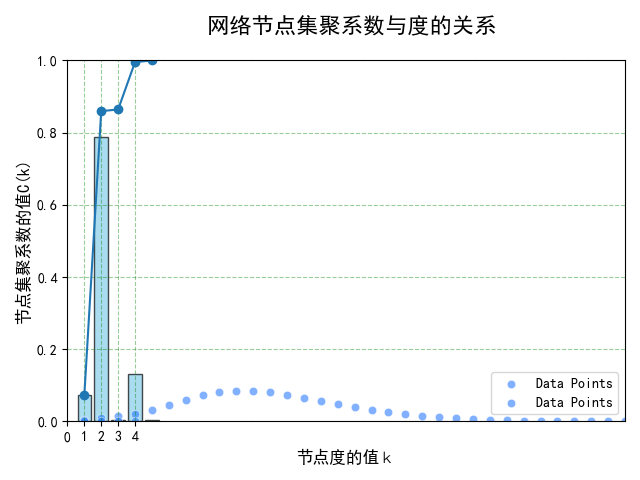
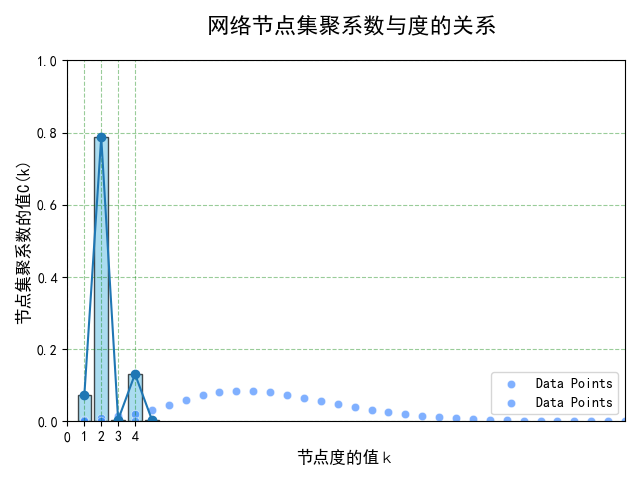
4.0打印了一些基础的东西

Changed region(s): [[0.125, 0.2188, 0.25, 0.875], [0.1875, 0.125, 0.25, 0.2188]]

diff --git a/complexGraph.py b/complexGraph.py
@@ -284,11 +284,12 @@ class complexGraphProject(object):
         :return:
         """
         # 数据
-
+        k_division_acc = deepcopy(k_division)
+        # print(k_division_acc)
         k_division_fuben = deepcopy(k_division)  # 将k_division的值进行深拷贝，只赋值，不赋地址
         x = [1, 2, 3, 4, 5]
         for i in range(5):
-            k_division[i] = sum(k_division_fuben[0:i + 1])
+            k_division_acc[i] = sum(k_division_fuben[0:i + 1])
 
         # 创建折线图
         plt.plot(x, k_division, marker='o')
@@ -300,7 +301,7 @@ class complexGraphProject(object):
         plt.ylim(0, 1.01)
         plt.grid(True, color="green")
         plt.savefig('kLinePlot.png')
-        k_division_acc = k_division
+
         return k_division_acc
 
     def k_sum(self, stationMatrix=None, lineIndex_dict=None):
@@ -357,7 +358,7 @@ class complexGraphProject(object):
         x = []
         for index, value in enumerate(averShortPathList):
             x.insert(index, index + 1)
-        print(x)
+        # print(x)
         plt.scatter(
             x,
             averShortPathList,
@@ -538,7 +539,7 @@ class complexGraphProject(object):
         :param k_dict:
         :return:
         """
-        print(k_dict)
+        # print(k_dict)
         x = []  # 存节点的度
         y = []  # 存节点的介数
         for index, value in node_bc.items():
@@ -584,12 +585,23 @@ class complexGraphProject(object):
 
         # 计算点介数（结果自动包含标准化处理）
         node_bc = nx.betweenness_centrality(G)
+        node_ave = 0  # 点平均介数
+        for key, value in node_bc.items():
+            node_ave += value
+        node_ave /= len(node_bc)
+        print("点平均介数为{}".format(node_ave))
         # self.node_bcPlot(node_bc=node_bc)
 
         # self.relationship_node_bc_k(node_bc=node_bc, k_dict=k_dict)
 
         # 计算边介数并标准化边方向
         edge_bc = nx.edge_betweenness_centrality(G)
+        edge_ave = 0
+        for key, value in edge_bc.items():
+            edge_ave += value
+        edge_ave /= len(edge_bc)
+        print("边平均介数为{}".format(edge_ave))
+
         # self.edge_bcPlot(edge_bc=edge_bc, k_dict=k_dict)
 
         # 标准化边方向（无累加操作）
@@ -606,23 +618,35 @@ class complexGraphProject(object):
         edges_top20 = sorted_edges
 
         # print(k_dict)
-        print(lineIndex_dict)
+        # print(lineIndex_dict)
         # 打印结果
-        print("点介数Top20：")
-        for idx, (node, value) in enumerate(nodes_top20, 1):
-            for key, station_value in lineIndex_dict.items():
-                if station_value == node:
-                    print(f"{idx:2d}. 节点 {node} 节点名字 {key}: {value:.6f}")
+        # print("点介数Top20：")
+        # for idx, (node, value) in enumerate(nodes_top20, 1):
+        #     for key, station_value in lineIndex_dict.items():
+        #         if station_value == node:
+        #             print(f"{idx:2d}. 节点 {node} 节点名字 {key}: {value:.6f}")
 
-        print("\n边介数Top20：")
-        for idx, ((u, v), value) in enumerate(edges_top20, 1):
-            for key, station_value in lineIndex_dict.items():
-                if station_value == u:
-                    uname = key
-                if station_value == v:
-                    vname = key
-            print(f"{idx:2d}. 边 ({u}, {v}) 边名 ({uname},{vname}): {value:.6f}")
+        # print("\n边介数Top20：")
+        # for idx, ((u, v), value) in enumerate(edges_top20, 1):
+        #     for key, station_value in lineIndex_dict.items():
+        #         if station_value == u:
+        #             uname = key
+        #         if station_value == v:
+        #             vname = key
+        #     print(f"{idx:2d}. 边 ({u}, {v}) 边名 ({uname},{vname}): {value:.6f}")
         return sorted_nodes, sorted_edges
+
+    def detail_print(self, k_division):
+        """
+
+        :param k_division:
+        :return:
+        """
+        ave_k = 0
+        # print(k_division)
+        for index, value in enumerate(k_division):
+            ave_k += (index + 1) * k_division[index]
+        print(f"平均度数为{ave_k:3f}")
 
     def run(self):
         """程序入口"""
@@ -634,11 +658,14 @@ class complexGraphProject(object):
         # 求度和度的概率分布
         self.k_dict, self.k_division = self.k_sum(stationMatrix=self.stationMatrix, lineIndex_dict=self.lineIndex_dict)
         # 求平均路径长度
-        # self.averShortPathList = self.averPath(stationMatrix=self.stationMatrix)
+        self.averShortPathList = self.averPath(stationMatrix=self.stationMatrix)
         # 计算集聚系数
-        # self.clustering_coefficient(stationMatrix=self.stationMatrix)
+        self.clustering_coefficient(stationMatrix=self.stationMatrix)
         # 计算介数
         self.betweenness(stationMatrix=self.stationMatrix, k_dict=self.k_dict, lineIndex_dict=self.lineIndex_dict)
+        self.detail_print(k_division=self.k_division)
+        print("直径为5")
+        print("度分布为:高斯分布")
 
 
 if __name__ == '__main__':
